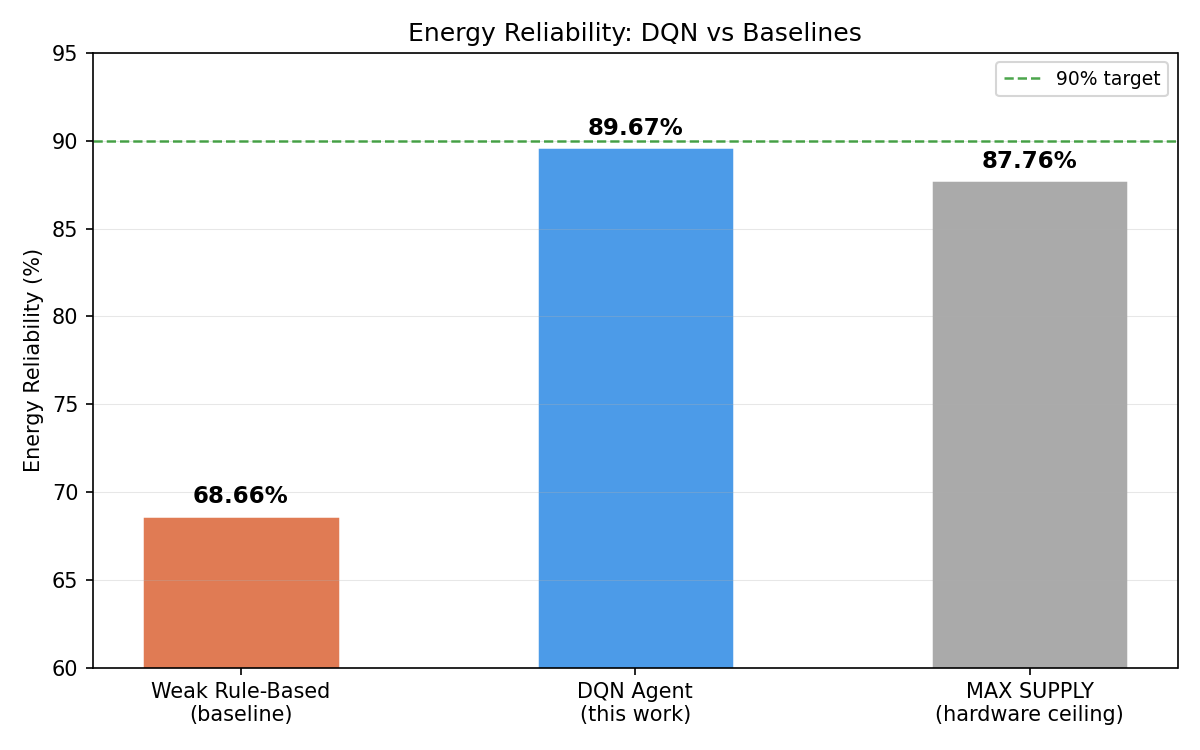
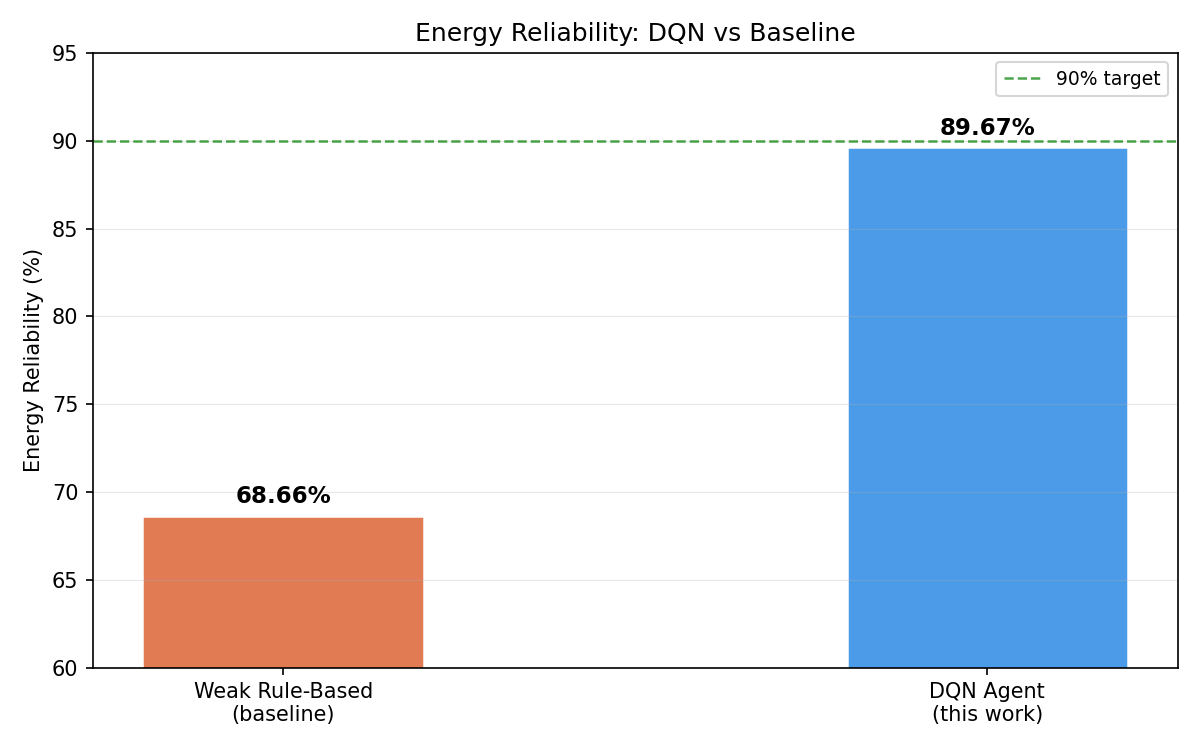
feat: back for clearance

diff --git a/evaluate.py b/evaluate.py
@@ -183,13 +183,14 @@ def save_plots(dqn: dict, rule: dict, ceiling: dict,
 
     # ── Plot 1: Reliability comparison bar chart ──────────────────────────────
     fig, ax = plt.subplots(figsize=(8, 5))
-    labels  = ["Weak Rule-Based\n(baseline)", "DQN Agent\n(this work)",
-               "MAX SUPPLY\n(hardware ceiling)"]
-    values  = [rule["energy_reliability"], dqn["energy_reliability"],
-               ceiling["energy_reliability"]]
-    colors  = ["#e07b54", "#4c9be8", "#aaaaaa"]
-    bars    = ax.bar(labels, values, color=colors, width=0.5, edgecolor="white",
-                     linewidth=1.2)
+    
+    # REMOVED MAX SUPPLY FROM LABELS, VALUES, AND COLORS
+    labels  = ["Weak Rule-Based\n(baseline)", "DQN Agent\n(this work)"]
+    values  = [rule["energy_reliability"], dqn["energy_reliability"]]
+    colors  = ["#e07b54", "#4c9be8"]
+    
+    bars    = ax.bar(labels, values, color=colors, width=0.4, edgecolor="white",
+                     linewidth=1.2) # slightly narrowed width from 0.5 to 0.4 for aesthetics
 
     for bar, val in zip(bars, values):
         ax.text(bar.get_x() + bar.get_width() / 2,
@@ -199,7 +200,7 @@ def save_plots(dqn: dict, rule: dict, ceiling: dict,
     ax.axhline(90, color="green", linestyle="--", linewidth=1.2,
                label="90% target", alpha=0.7)
     ax.set_ylabel("Energy Reliability (%)")
-    ax.set_title("Energy Reliability: DQN vs Baselines")
+    ax.set_title("Energy Reliability: DQN vs Baseline")
     ax.set_ylim(60, 95)
     ax.legend(fontsize=9)
     ax.grid(True, axis="y", alpha=0.3, linewidth=0.5)